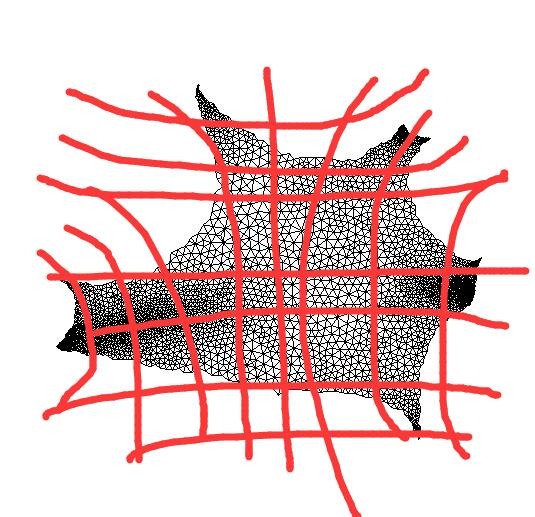
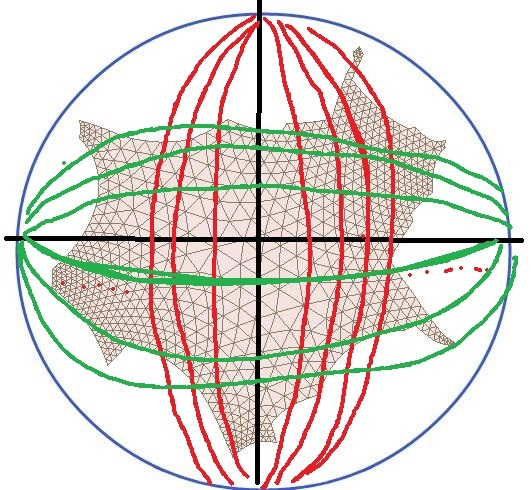
add euclidean ricci flow

diff --git a/README.md b/README.md
@@ -11,8 +11,9 @@
 
 
 ### Step 2: Get the canonical coordinate for the convolution on the Poincare disk
+There is a X-Y coordinate for the poincare disk, so that the poincare disk can be one to one map to the euclidean coordinate
+The illustrative figure is
 
-The illustrative figure
 ![Image of mesh along fundamental group](screenshots/fig4.jpg)
 
 ### Step 3: Convolution along the canonical coordinates
